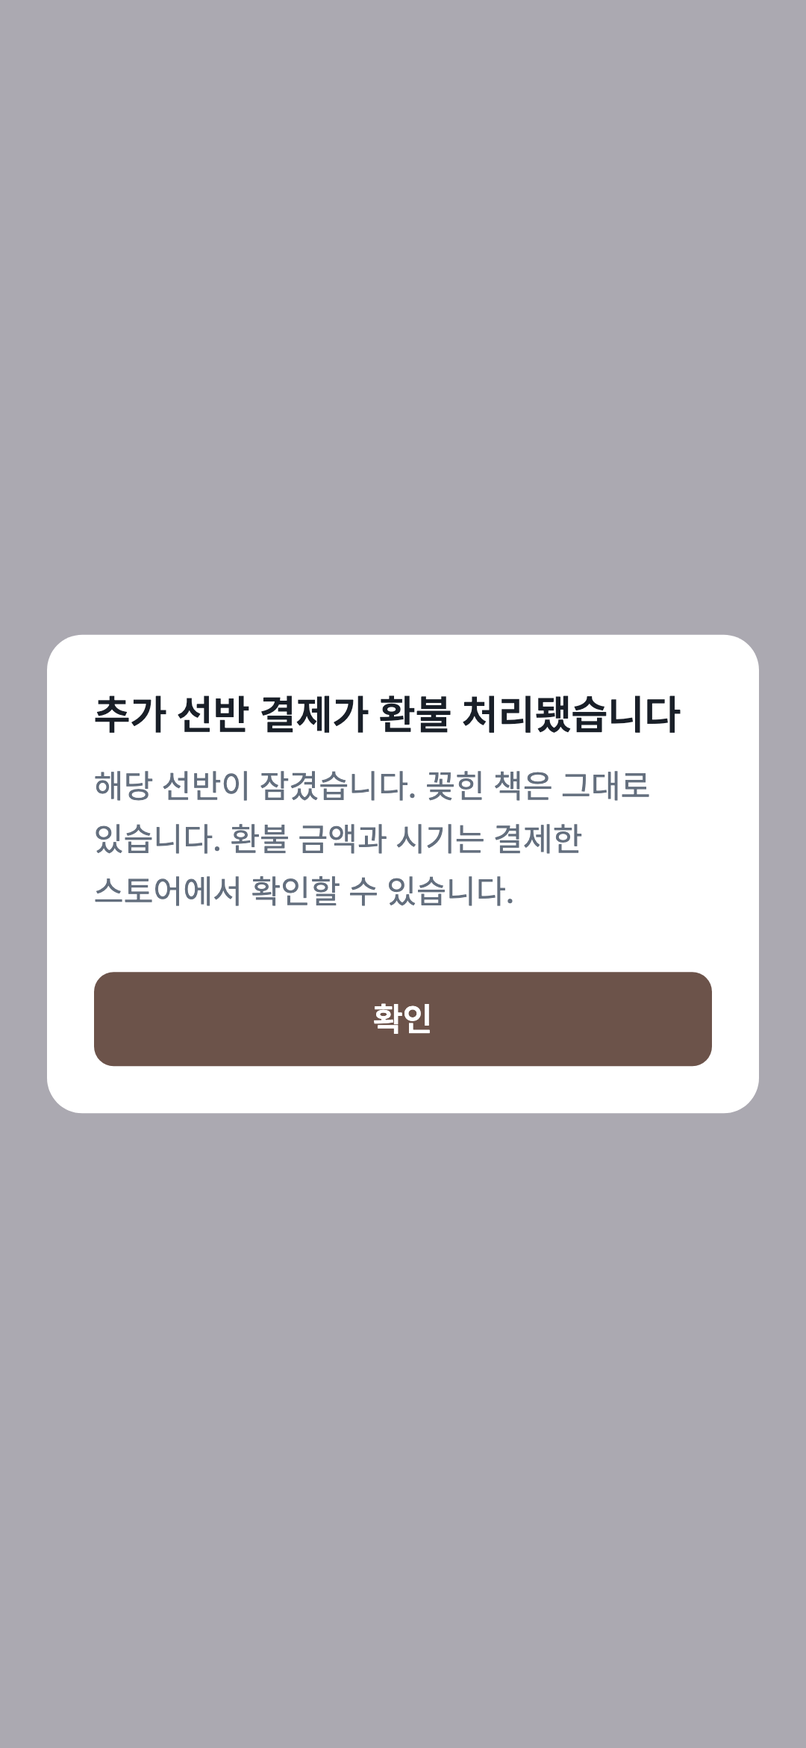
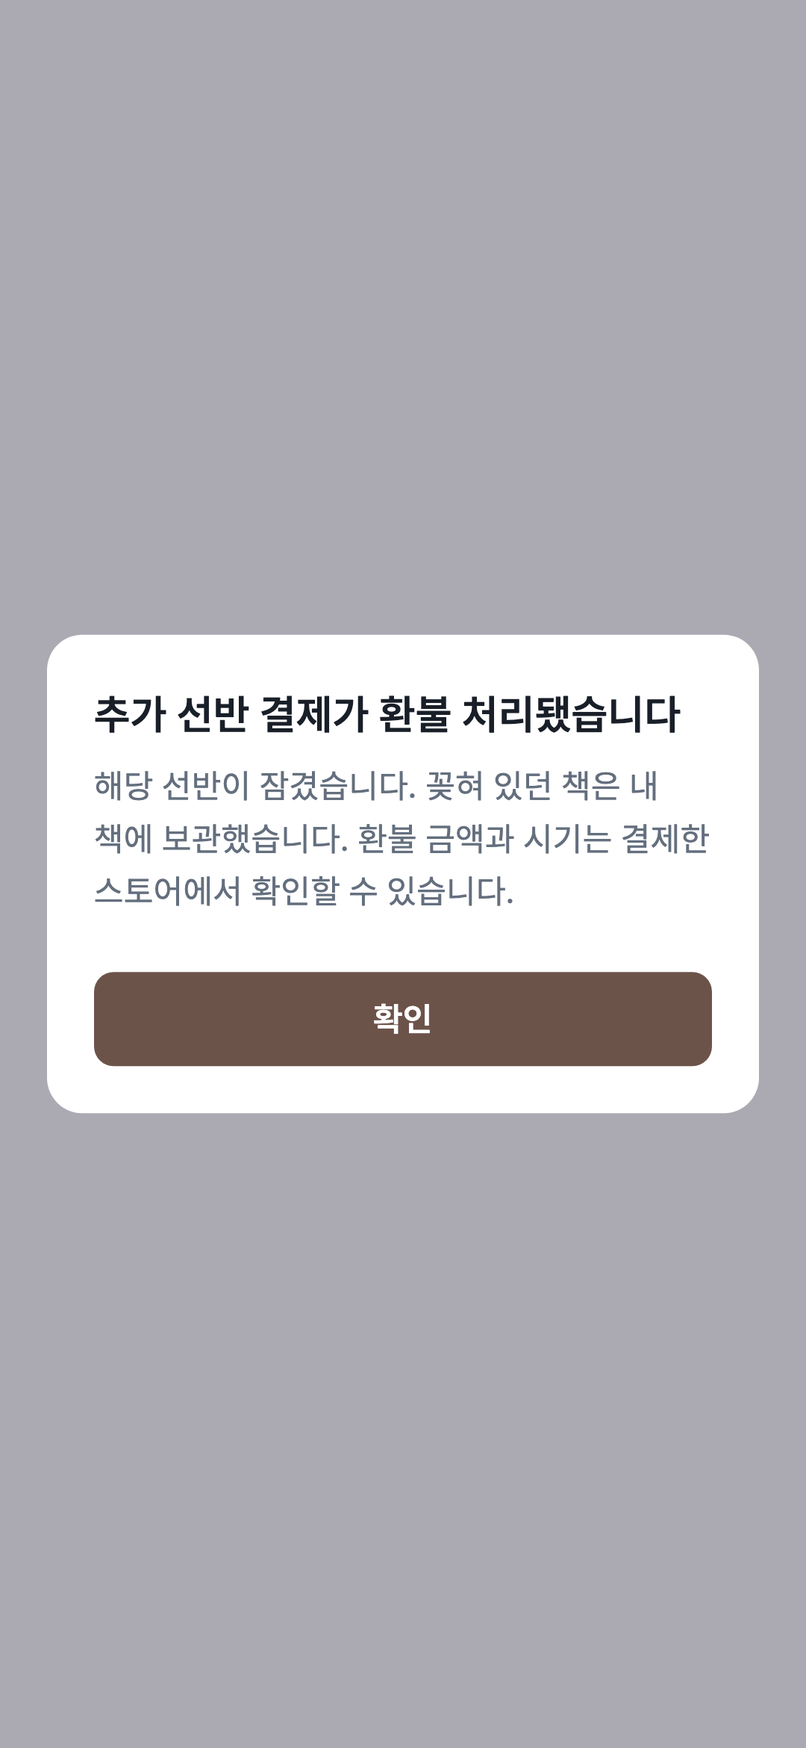
환불된 선반: 그 칸의 책을 빼 내 책에 보관하고 기존 잠긴 모양으로 닫기(무료 3칸은 그대로). 책 꽂힌 채 잠그는 안과 표시는 뺌

Changed region(s): [[0.1222, 0.4368, 0.8861, 0.4991]]

diff --git a/app/lib/features/home/home_screen.dart b/app/lib/features/home/home_screen.dart
@@ -18,9 +18,9 @@ import '../../services/cover_colors.dart';
 import '../../ui/kit.dart' show Btn, PullUp, Space, showSheet;
 import 'locked_rows.dart';
 import '../../store/entitlement_store.dart';
-import '../book/place_books.dart' show lockedShelfIds;
+import '../book/place_books.dart' show enforceShelfLimit;
 import '../iap/shelf_purchase_sheet.dart' show showShelfPurchase;
-import 'refunded_shelf_mark.dart';
+import 'lock_icon.dart';
 import 'book_sheet.dart';
 import '../settings/settings_screen.dart' show openProfile;
 import '../store/store_screen.dart' show openStore;
@@ -411,8 +411,6 @@ class _HomeScreenState extends State<HomeScreen> with TickerProviderStateMixin, 
     final withinX = centerDU > -sideMargin && centerDU < shelfUsableWidth + sideMargin;
     if (!withinX || index < 0 || index >= shelves.length) return (key: 'outside', shelfId: null, run: () => const EditResult.fail('outside'));
     final shelfId = shelves[index].id;
-    // 환불로 잠긴 선반에는 다른 선반의 책을 새로 꽂지 못한다(그 선반 안에서 자리를 바꾸거나 밖으로 빼는 것은 된다, D13)
-    if (shelfId != d.shelfId && lockedShelfIds().contains(shelfId)) return (key: 'locked:$shelfId', shelfId: null, run: () => const EditResult.fail('shelf-locked'));
     if (shelfId == d.shelfId) {
       final t = findSwapTarget(l, s.books, d.id, centerDU);
       return (key: 'same:${t.kind}:${t.itemKey}:${t.index}:${t.x}:${t.dx}', shelfId: shelfId, run: () => applySwapTarget(l, s.books, d.id, t));
@@ -996,7 +994,7 @@ class _HomeScreenState extends State<HomeScreen> with TickerProviderStateMixin, 
     focusBookOnShelf.addListener(_focusBook);
     LibraryModel.instance.addListener(_libraryChanged);
     BookcaseStore.instance.addListener(_bookcasesChanged);
-    // 구매·환불로 쓸 수 있는 선반 칸이 바뀌면 환불된 선반 표시를 다시 그린다
+    // 환불로 쓸 수 있는 선반 칸이 줄면 그 칸을 닫는다(책은 내 책에 보관)
     if (iapOn) EntitlementStore.instance.addListener(_entitlementChanged);
     if (!BookcaseStore.instance.loaded) BookcaseStore.instance.load();
     _loadSnap();
@@ -1179,37 +1177,9 @@ class _HomeScreenState extends State<HomeScreen> with TickerProviderStateMixin, 
     if (_pendingFocus != null) WidgetsBinding.instance.addPostFrameCallback((_) => _tryFocus());
   }
 
-  /// 환불로 잠긴 선반이 시작하는 줄 번호. 없으면 줄 수보다 큰 값(결제가 꺼졌거나 서버 상태를 아직 못 받았으면 잠그지 않는다)
   void _entitlementChanged() {
-    if (mounted) setState(() {});
+    enforceShelfLimit().catchError((Object _) => 0);
   }
-
-  int _refundedFrom() {
-    final e = EntitlementStore.instance;
-    return iapOn && e.loaded ? allowedShelfSlots(e.shelves) : 1 << 30;
-  }
-
-  // 환불된 선반 안내: 무엇이 되고 안 되는지 알리고, 다시 살 수 있으면 구매 시트로 가는 길을 둔다(권유 문장은 넣지 않는다)
-  void _openRefunded() => showSheet<void>(
-        context,
-        title: '환불된 선반',
-        description: '결제가 환불돼 잠긴 선반이에요.\n꽂힌 책은 그대로 있고, 빼거나 이 선반 안에서 옮길 수 있어요. 새로 꽂을 수는 없어요.',
-        builder: (ctx) => Column(crossAxisAlignment: CrossAxisAlignment.stretch, mainAxisSize: MainAxisSize.min, children: [
-          Padding(padding: const EdgeInsets.only(top: 8), child: Btn(label: '확인', size: 'l', onPress: () => Navigator.pop(ctx))),
-          Padding(
-            padding: const EdgeInsets.only(top: Space.s),
-            child: Btn(
-              label: '선반 구매 보기',
-              kind: 'secondary',
-              size: 'l',
-              onPress: () {
-                Navigator.pop(ctx);
-                showShelfPurchase(context);
-              },
-            ),
-          ),
-        ]),
-      );
 
   // 잠긴 선반 시트(지금 앱 LockedShelfSheet): 세 칸까지는 바로 열고, 그 위는 유료 예정이라 준비 중으로 알린다(2026-11-15 사용자 결정).
   // '무료로'는 쓰지 않는다(QA: 곧 돈 받겠다는 뜻으로 읽혔다). 남은 칸 수를 알린다
@@ -1511,15 +1481,6 @@ class _HomeScreenState extends State<HomeScreen> with TickerProviderStateMixin, 
                                     ? const SizedBox.shrink()
                                     : Semantics(container: true, explicitChildNodes: true, sortKey: const OrdinalSortKey(0), child: header(headerOpacity)),
                               ),
-                              // 환불로 잠긴 선반(D13): 책은 그대로 두고 표시만 얹는다. 표시를 누르면 안내, 책은 그대로 눌린다
-                              for (var i = _refundedFrom(); i < lockedFrom && i < geo.length; i++)
-                                Positioned(
-                                  left: 0,
-                                  right: 0,
-                                  top: contentTop + geo[i].top,
-                                  height: geo[i].height,
-                                  child: RefundedShelfMark(onTap: _openRefunded),
-                                ),
                               // 잠긴 칸: 가운데 자물쇠, 누르면 선반 한 칸 더 열기
                               for (var i = lockedFrom; i < n && i < geo.length; i++)
                                 Positioned(

diff --git a/app/test/iap_test.dart b/app/test/iap_test.dart
@@ -3,6 +3,9 @@
 import 'dart:io';
 import 'dart:ui' as ui;
 
+import 'package:chaekjang/domain/layout.dart';
+import 'package:chaekjang/domain/layout_engine.dart' show closeShelvesBeyond;
+import 'package:chaekjang/domain/types.dart' show BookPlacement, Shelf;
 import 'package:chaekjang/features/home/locked_rows.dart';
 import 'package:chaekjang/features/iap/consent_screen.dart';
 import 'package:chaekjang/features/iap/notice.dart';
@@ -247,11 +250,23 @@ void main() {
     expect(iapPlanOf(_detail('plus', '플러스', '스토어 가격')), isNull); // 스토어별 타입이 아니면 요금제로 보지 않는다
   });
 
-  test('환불로 잠긴 선반: 쓸 수 있는 칸 아래의 선반', () {
-    // 두 칸을 샀다가 환불돼 구매한 칸이 0이 됐다: 넷째, 다섯째 선반이 잠긴다
-    expect([for (var i = 0; i < 5; i++) shelfLockedAt(i, 0)], [false, false, false, true, true]);
-    expect([for (var i = 0; i < 5; i++) shelfLockedAt(i, 1)], [false, false, false, false, true]);
-    expect(shelfLockedAt(4, 2), isFalse);
+  test('환불로 줄어든 칸: 그 아래 선반을 닫고 책은 보관으로, 무료 세 칸은 그대로', () {
+    const shelves = [Shelf('s1', 0), Shelf('s2', 1), Shelf('s3', 2), Shelf('s4', 3), Shelf('s5', 4)];
+    BookPlacement at(String book, String shelf) => BookPlacement(bookId: book, shelfId: shelf, order: 0, pos: 0);
+    final l = ShelfLayout(shelves, [at('a', 's1'), at('b', 's3'), at('c', 's4'), at('d', 's5')], const ['z']);
+    // 두 칸을 샀다가 둘 다 환불됐다: 넷째, 다섯째 선반이 닫힌다
+    final next = closeShelvesBeyond(l, 3)!;
+    expect([for (final s in next.shelves) s.id], ['s1', 's2', 's3']);
+    expect([for (final p in next.placements) (p.bookId, p.shelfId)], [('a', 's1'), ('b', 's3')]);
+    expect(next.drawer, containsAll(['c', 'd', 'z']));
+    // 한 칸만 환불: 다섯째만 닫힌다
+    final one = closeShelvesBeyond(l, 4)!;
+    expect([for (final s in one.shelves) s.id], ['s1', 's2', 's3', 's4']);
+    expect(one.drawer, containsAll(['d', 'z']));
+    expect(one.drawer.contains('c'), isFalse);
+    // 닫을 것이 없으면 건드리지 않는다
+    expect(closeShelvesBeyond(l, 5), isNull);
+    expect(closeShelvesBeyond(next, 3), isNull);
   });
 
   void plans() {
@@ -406,7 +421,7 @@ void main() {
     (IapNoticeKind.paymentFailed, '13-notice-payment-failed', ['결제가 이뤄지지 않았습니다', '2027년 2월 3일까지는 계속 이용할 수 있습니다.', '결제 수단 확인하기', '닫기']),
     (IapNoticeKind.expired, '14-notice-expired', ['구독이 끝났습니다', '만든 책장과 기록은 그대로 있습니다.', '확인']),
     (IapNoticeKind.subscriptionRefunded, '15-notice-subscription-refunded', ['환불 처리됐습니다', '구독이 종료됐습니다.', '확인']),
-    (IapNoticeKind.shelfRefunded, '16-notice-shelf-refunded', ['추가 선반 결제가 환불 처리됐습니다', '꽂힌 책은 그대로 있습니다.', '확인']),
+    (IapNoticeKind.shelfRefunded, '16-notice-shelf-refunded', ['추가 선반 결제가 환불 처리됐습니다', '꽂혀 있던 책은 내 책에 보관했습니다.', '확인']),
   ]) {
     testWidgets('상태 변화 알림 화면: ${kind.name}', (t) async {
       await _pump(t, Scaffold(body: Builder(builder: (ctx) => Center(child: Btn(label: '열기', onPress: () => showIapNotice(ctx, kind, noticeSub))))));

diff --git a/app/lib/store/placement_store.dart b/app/lib/store/placement_store.dart
@@ -118,12 +118,11 @@ class PlacementStore {
   }
 
   /// 책장에 놓기(서랍에 있든 처음이든). 뺀 책이면 뺄 때 자리부터, 그다음 선반마다 끝, 줄 안의 빈 틈(fitCandidates). 놓았으면 true, 자리가 없으면 false
-  /// locked: 새로 꽂을 수 없는 선반(환불로 잠긴 선반, ADR-0002 D13)
-  Future<bool> placeOnShelf(String bookId, {Set<String> locked = const {}}) async {
+  Future<bool> placeOnShelf(String bookId) async {
     final l = layout;
     if (l == null || placementOf(l, bookId) != null) return l != null;
     final spot = _spots.remove(bookId);
-    if (spot != null && !locked.contains(spot.was.shelfId)) {
+    if (spot != null) {
       final next = reinsertAt(l, books, spot.was, spot.index);
       // 다른 책은 자리·자세·깊이가 그대로일 때만(기대기는 뺄 때처럼 다시 풀린다: 이 책에 기대 있던 옆 책은 다시 기댄다)
       if (next != null && _undisturbed(next, spot.was.shelfId, lean: false) && await commit(next)) {
@@ -133,9 +132,7 @@ class PlacementStore {
     }
     lastRestored = null;
     for (final next in fitCandidates(l, books, bookId)) {
-      final shelfId = placementOf(next, bookId)!.shelfId;
-      if (locked.contains(shelfId)) continue;
-      if (_undisturbed(next, shelfId)) return commit(next);
+      if (_undisturbed(next, placementOf(next, bookId)!.shelfId)) return commit(next);
     }
     return false;
   }
@@ -161,12 +158,14 @@ class PlacementStore {
     return true;
   }
 
-  /// 위에서부터 allowed번째 아래에 있는 선반들(환불로 잠긴 선반)
-  Set<String> shelvesBeyond(int allowed) {
+  /// 쓸 수 있는 칸(allowed)보다 아래의 선반을 닫는다(환불로 구매한 칸이 줄었을 때, ADR-0002 D13).
+  /// 그 선반의 책은 책장에서 빼 내 책에 보관하고, 칸은 아직 안 연 선반처럼 잠긴 모양으로 돌아간다. 옮긴 책 수를 돌려준다
+  Future<int> closeShelvesBeyondLimit(int allowed) async {
     final l = layout;
-    if (l == null) return const {};
-    final list = sortedShelves(l);
-    return {for (var i = allowed; i < list.length; i++) list[i].id};
+    final next = l == null ? null : closeShelvesBeyond(l, allowed);
+    if (l == null || next == null) return 0;
+    final moved = next.drawer.length - l.drawer.length;
+    return await commit(next) ? moved : 0;
   }
 
   /// 선반 한 칸 더 열기(맨 끝에 빈 선반)
@@ -201,7 +200,6 @@ class PlacementStore {
 
 /// 편집 실패 까닭 → 알림 글(지금 앱 ko.fail)
 const editFailText = {
-  'shelf-locked': '환불된 선반이라 새로 꽂을 수 없어요. 꽂혀 있는 책은 그대로예요.',
   'no-space': '공간이 부족해요. 다른 자리로 옮겨 주세요.',
   'unsupported': '아래 책 위에 다 올라가지 않아요. 더 큰 책 위에 쌓아 주세요.',
   'spin-only-lying': '눕힌 책만 돌릴 수 있어요.',

diff --git a/app/lib/features/book/place_books.dart b/app/lib/features/book/place_books.dart
@@ -15,6 +15,7 @@ import '../../ui/book_visual.dart';
 import '../../ui/kit.dart';
 import '../../ui/theme.dart';
 import '../home/locked_rows.dart' show allowedShelfSlots, freeShelfSlots, openableShelfCount;
+import '../../services/iap.dart' show IapService;
 import '../../store/entitlement_store.dart';
 
 /// 놓을 수 있는 만큼 놓는다(놓은 책, 자리가 없어 남은 책)
@@ -24,7 +25,7 @@ Future<({List<String> placed, List<String> left})> placeBooks(Iterable<String> i
   final placed = <String>[], left = <String>[];
   for (final id in ids) {
     if (placementOf(s.layout!, id) != null) continue;
-    (await s.placeOnShelf(id, locked: lockedShelfIds()) ? placed : left).add(id);
+    (await s.placeOnShelf(id) ? placed : left).add(id);
   }
   return (placed: placed, left: left);
 }
@@ -108,9 +109,13 @@ Future<bool?> _askNoRoom(BuildContext context, List<String> ids, int free) {
   );
 }
 
-/// 환불로 잠긴 선반(ADR-0002 D13). 결제가 꺼진 빌드, 서버에서 구매한 칸 수를 아직 못 받은 때는 잠그지 않는다
-Set<String> lockedShelfIds() {
+/// 환불로 구매한 선반 칸이 줄었으면 그 칸을 닫는다(ADR-0002 D13, 2026-11-19 정환: 무료 세 칸은 건드리지 않고,
+/// 잠기는 칸은 책을 다 빼고 아직 안 연 선반처럼 잠근다). 뺀 책은 내 책에 보관된다. 옮긴 책 수를 돌려준다.
+/// 서버에서 이번 실행에 받은 상태로만 한다: 기기에 남긴 지난번 값이나 받기 전의 0으로 선반을 닫지 않는다
+Future<int> enforceShelfLimit() async {
   final e = EntitlementStore.instance;
-  if (!iapOn || !e.loaded) return const {};
-  return PlacementStore.instance.shelvesBeyond(allowedShelfSlots(e.shelves));
+  if (!iapOn || !IapService.instance.synced) return 0;
+  final s = PlacementStore.instance;
+  await s.ensure();
+  return s.closeShelvesBeyondLimit(allowedShelfSlots(e.shelves));
 }

diff --git a/app/lib/features/home/lock_icon.dart b/app/lib/features/home/lock_icon.dart
@@ -1,0 +1,42 @@
+// 잠긴 선반의 자물쇠 그림
+library;
+
+import 'package:flutter/material.dart';
+
+/// 자물쇠(지금 앱 TabIcons LockIcon 32×40, 색 #3F4347·구멍 #F4F3F2). 아직 안 연 선반과 환불로 닫힌 선반이 같은 모양이다
+class LockIcon extends StatelessWidget {
+  const LockIcon({super.key, this.scale = 1});
+  final double scale;
+
+  @override
+  Widget build(BuildContext context) => CustomPaint(size: Size(32 * scale, 40 * scale), painter: _LockPainter(scale));
+}
+
+class _LockPainter extends CustomPainter {
+  _LockPainter(this.scale);
+  final double scale;
+  static const _ink = Color(0xFF3F4347), _hole = Color(0xFFF4F3F2);
+
+  @override
+  void paint(Canvas canvas, Size size) {
+    canvas.scale(scale);
+    final shackle = Path()
+      ..moveTo(8.5, 19)
+      ..lineTo(8.5, 11.5)
+      ..arcToPoint(const Offset(23.5, 11.5), radius: const Radius.circular(7.5))
+      ..lineTo(23.5, 19);
+    canvas.drawPath(
+      shackle,
+      Paint()
+        ..color = _ink
+        ..style = PaintingStyle.stroke
+        ..strokeWidth = 3.6,
+    );
+    canvas.drawRRect(RRect.fromRectAndRadius(const Rect.fromLTWH(2.5, 16.5, 27, 22), const Radius.circular(5.5)), Paint()..color = _ink);
+    canvas.drawCircle(const Offset(16, 25.5), 3.1, Paint()..color = _hole);
+    canvas.drawRRect(RRect.fromRectAndRadius(const Rect.fromLTWH(14.5, 25.5, 3, 6.5), const Radius.circular(1.5)), Paint()..color = _hole);
+  }
+
+  @override
+  bool shouldRepaint(_LockPainter old) => old.scale != scale;
+}

diff --git a/app/lib/features/iap/notice.dart b/app/lib/features/iap/notice.dart
@@ -77,7 +77,7 @@ Future<void> showIapNotice(BuildContext context, IapNoticeKind kind, IapSubscrip
     IapNoticeKind.paymentFailed => ('$name 결제가 이뤄지지 않았습니다', '${grace == null ? '' : '${iapDate(grace)}까지는 계속 이용할 수 있습니다. '}그때까지 결제되지 않으면 구독이 끝납니다.'),
     IapNoticeKind.expired => ('$name 구독이 끝났습니다', '만든 책장과 기록은 그대로 있습니다. 유료 벽지와 선반 색은 기본 모양으로 보이고, 고른 설정은 저장돼 있습니다.'),
     IapNoticeKind.subscriptionRefunded => ('$name 결제가 환불 처리됐습니다', '구독이 종료됐습니다. 환불 금액과 시기는 $store에서 확인할 수 있습니다.'),
-    IapNoticeKind.shelfRefunded => ('추가 선반 결제가 환불 처리됐습니다', '해당 선반이 잠겼습니다. 꽂힌 책은 그대로 있습니다. 환불 금액과 시기는 결제한 스토어에서 확인할 수 있습니다.'),
+    IapNoticeKind.shelfRefunded => ('추가 선반 결제가 환불 처리됐습니다', '해당 선반이 잠겼습니다. 꽂혀 있던 책은 내 책에 보관했습니다. 환불 금액과 시기는 결제한 스토어에서 확인할 수 있습니다.'),
   };
   // 결제 실패만 할 일이 있다: 결제 수단 확인을 주 버튼으로, 닫기는 아래 글자 버튼으로
   if (kind == IapNoticeKind.paymentFailed && sub != null) {

diff --git a/app/lib/app/app_shell.dart b/app/lib/app/app_shell.dart
@@ -14,6 +14,7 @@ import '../features/record/record_tab.dart' show RecordTab;
 import '../features/community/community_screens.dart' show watchCommunityOpen;
 import '../domain/library.dart';
 import 'app_nav.dart';
+import '../features/book/place_books.dart' show enforceShelfLimit;
 import '../features/home/home_screen.dart';
 import '../features/iap/notice.dart' show checkIapNotice;
 import '../domain/reading.dart' show askGapMs, withJosa;
@@ -120,7 +121,11 @@ class _AppShellState extends State<AppShell> {
         // 결제를 켠 빌드: 스토어가 주는 거래를 듣기 시작한다(끝내지 않은 거래가 여기서 다시 온다)
         // 서버에서 상태를 받았으면, 지난번과 달라진 것(결제 실패, 만료, 환불)을 한 번 알린다
         IapService.instance.start().then((_) {
-          if (mounted && IapService.instance.synced) checkIapNotice(context);
+          if (!mounted || !IapService.instance.synced) return;
+          // 환불로 구매한 선반 칸이 줄었으면 먼저 그 칸을 닫고, 달라진 것을 알린다
+          enforceShelfLimit().catchError((Object _) => 0).whenComplete(() {
+            if (mounted) checkIapNotice(context);
+          });
         });
         watchCommunityOpen();
         // 표지 색·두께·갈피 색 맞추기는 켠 뒤 조금 있다 뒤에서(지금 앱 _layout: 3초 뒤)

diff --git a/app/lib/domain/layout_engine.dart b/app/lib/domain/layout_engine.dart
@@ -1105,6 +1105,20 @@ EditResult moveToShelf(ShelfLayout layout, BookMap books, String bookId, String 
   return moveBook(layout, books, bookId, DropTarget.insert(shelfId, count));
 }
 
+/// 위에서부터 keep칸만 남기고 그 아래 선반을 닫는다(환불로 구매한 칸이 줄었을 때). 닫힌 선반의 책은 책장에 없는 책(서랍)으로 옮긴다.
+/// 남는 선반의 책은 건드리지 않는다. 닫을 선반이 없으면 null
+ShelfLayout? closeShelvesBeyond(ShelfLayout layout, int keep) {
+  final shelves = sortedShelves(layout);
+  if (keep < 0 || shelves.length <= keep) return null;
+  final closed = {for (final s in shelves.skip(keep)) s.id};
+  final moved = [for (final p in layout.placements) if (closed.contains(p.shelfId)) p.bookId];
+  return normalize(ShelfLayout(
+    shelves.take(keep).toList(),
+    [for (final p in layout.placements) if (!closed.contains(p.shelfId)) p],
+    [...moved, ...layout.drawer],
+  ));
+}
+
 ShelfLayout addShelfTo(ShelfLayout layout, String id) => normalize(ShelfLayout([...layout.shelves, Shelf(id, layout.shelves.length)], layout.placements, layout.drawer));
 
 /// 끄는 동안 놓을 자리: 눕힌 책(더미) 가운데 절반 위면 쌓기, 그 밖은 그 자리에 끼우기(0.5DU 단위)

diff --git a/app/lib/features/iap/subscription_screen.dart b/app/lib/features/iap/subscription_screen.dart
@@ -48,7 +48,7 @@ Future<void> showRefundSheet(BuildContext context, String route) => showSheet<vo
       builder: (ctx) => Column(crossAxisAlignment: CrossAxisAlignment.stretch, mainAxisSize: MainAxisSize.min, children: [
         WordText('환불은 ${storeName(route)}의 환불 절차를 따릅니다. 결제와 환불은 ${storeName(route)}가 처리해서, 앱에서 바로 환불해 드릴 수 없어요.', style: AppType.body),
         const SizedBox(height: Space.item),
-        WordText('환불이 처리되면 구독이 종료되고, 구매한 선반은 잠겨요. 꽂아 둔 책과 기록은 그대로 있어요.', style: AppType.body),
+        WordText('환불이 처리되면 구독이 종료되고, 구매한 선반은 잠겨요. 그 선반에 꽂아 둔 책은 내 책에 보관되고 기록은 그대로 있어요.', style: AppType.body),
         Padding(
           padding: const EdgeInsets.only(top: Space.item),
           child: Btn(label: '${storeName(route)}에서 환불 신청하기', kind: 'secondary', onPress: () => launchUrl(storeRefundUrl(route), mode: LaunchMode.externalApplication).then((_) {}, onError: (_) {})),

diff --git a/app/lib/features/home/locked_rows.dart b/app/lib/features/home/locked_rows.dart
@@ -27,10 +27,6 @@ int openableShelfCount(int shelves, [int paid = 0]) => (allowedShelfSlots(paid) 
 /// 구매해서 더 열 수 있는 칸 수(다섯 칸에서 지금 쓸 수 있는 칸을 뺀 만큼)
 int purchasableShelfCount([int paid = 0]) => shelfSlots - allowedShelfSlots(paid);
 
-/// 환불로 잠긴 선반(ADR-0002 D13): 쓸 수 있는 칸보다 아래에 있는 선반. 꽂힌 책은 그대로 두고 새로 꽂기만 막는다.
-/// index는 위에서부터 센 선반 번호(0부터)
-bool shelfLockedAt(int index, int paid) => index >= allowedShelfSlots(paid);
-
 class LockedRow {
   const LockedRow(this.books, this.bodies);
   final List<Book> books;

diff --git a/docs/adr/0002-iap-design.md b/docs/adr/0002-iap-design.md
@@ -30,7 +30,7 @@
 | D10 | 지급과 확인 순서 | DB 저장 → 스토어 확인(acknowledge) → 앱이 거래 종료 |
 | D11 | 결제 실패 유예 | 유예 기간에는 유지, 그 뒤에는 해제. 애플 유예 기간을 켬 |
 | D12 | 구독 해지·만료 | 만든 것은 지우지 않음. 유료 꾸미기는 기본값으로 표시만 바꿈 |
-| D13 | 환불된 선반 | 선반 잠금. 꽂힌 책은 유지 |
+| D13 | 환불된 선반 | 그 칸의 책을 빼 내 책에 보관하고, 아직 안 연 선반처럼 잠금. 무료 3칸은 건드리지 않음 (2026-11-19 변경) |
 | D14 | 무료 체험 | 출시 때는 없음 |
 | D15 | 샌드박스 거래 | 운영 서버에서도 받음. 환경을 기록하고 매출 집계에서 제외 |
 | D16 | 다른 스토어에서 이미 구독 중 | 권한은 계정 기준으로 인정. 결제 화면에서 중복 구독을 막음 |
@@ -186,10 +186,11 @@
 
 ### D13. 환불된 선반
 
-- 결정: 선반을 잠금. 꽂힌 책은 그대로 두고 그 선반에 새로 꽂기만 막음
+- 결정(2026-11-19 정환): 환불된 칸의 책을 전부 빼 내 책에 보관하고, 그 칸은 아직 안 연 선반과 같은 잠긴 모양으로 되돌림. 무료 3칸은 건드리지 않음
+  - 이전 안(책은 그대로 두고 새로 꽂기만 막음)은 폐기. 책이 꽂힌 채 잠긴 선반이라는 별도 상태와 표시가 필요 없어짐
+  - 책과 기록은 지워지지 않음. 책장에서만 빠짐
 - 근거: 책을 서랍으로 옮기거나 지우면 유저 기록이 바뀜. 환불 사유가 오결제일 수도 있음
 - 다시 사면 잠금 해제
-- 정환 확인: 잠긴 선반의 책을 다른 선반으로 옮기는 것은 허용하는 안
 
 ### D14. 무료 체험 없음
 
@@ -312,7 +313,6 @@
 
 - D1: "최대 3칸"의 범위 (연도 책장마다 / 계정 전체)
 - D12: 유료 꾸미기를 기본값으로 되돌리는 방식에 동의하는지
-- D13: 잠긴 선반의 책 이동 허용 여부
 - D14: 무료 체험 없이 출시하는 것
 - 가격: 결제 계획 보고 참고
 

diff --git a/docs/legal/notice-templates.md b/docs/legal/notice-templates.md
@@ -135,7 +135,7 @@
 
 · 환불일: {환불일}
 · {구독인 경우: 구독이 종료됐습니다.}
-· {선반인 경우: 해당 선반이 잠겼습니다. 꽂힌 책은 그대로 있습니다.}
+· {선반인 경우: 해당 선반이 잠겼습니다. 꽂혀 있던 책은 내 책에 보관했습니다.}
 · 환불 금액과 시기는 {스토어}에서 확인할 수 있습니다.
 ```
 
